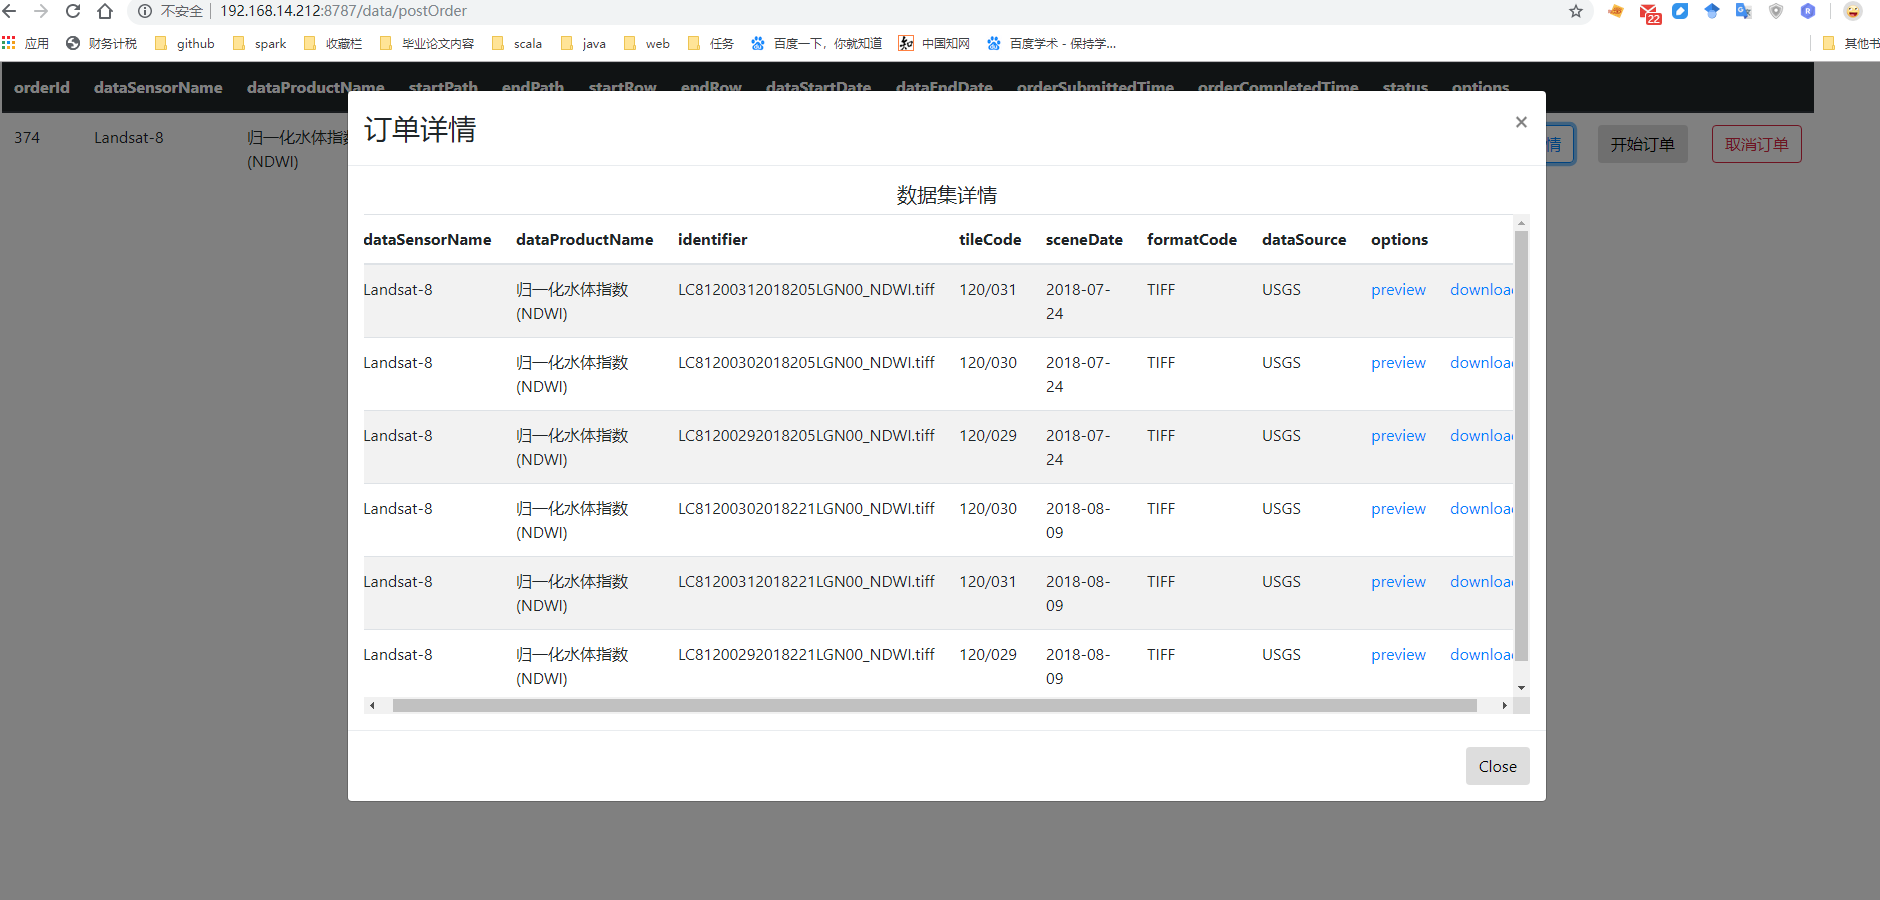
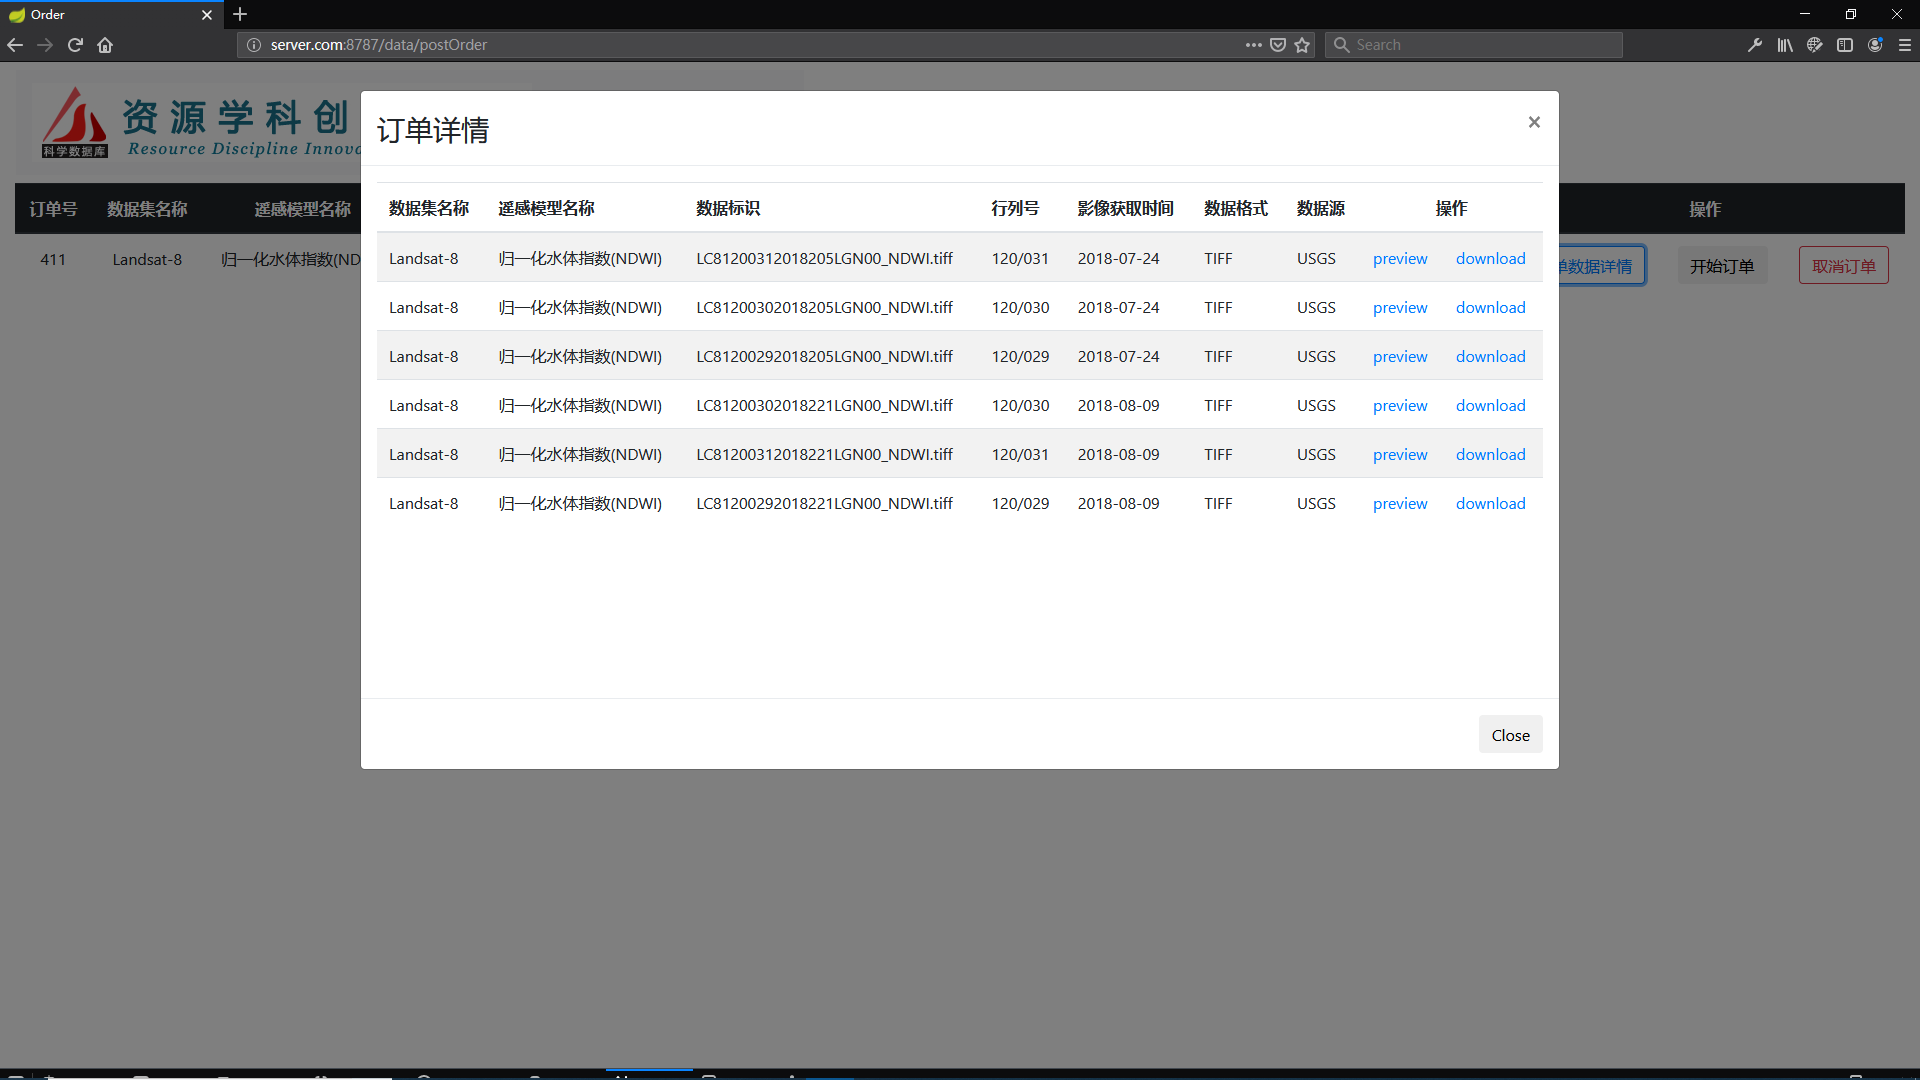
修改页面主题，添加项目logo

diff --git a/eos-data/src/main/java/cn/geosprite/eosdata/service/impl/ProcessServiceImpl.java b/eos-data/src/main/java/cn/geosprite/eosdata/service/impl/ProcessServiceImpl.java
@@ -76,12 +76,26 @@ public class ProcessServiceImpl implements ProcessService {
 
                 //大气校正的输入路径
                 String inputPath = pathConfigs.inputPath + dataGranule.getDataGranulePath();
+
+                /**
+                 *
+                 * /mnt/disk1/geodata/LC08/L1TP_C1_T1_SR/TIFF/113/026/2018/12/30/LC81130262018364LGN00
+                 * */
                 String outputPath = pathConfigs.outputPath + outputDataGranule.getDataGranulePath();
 
                 //进行大气校正
-                String log_  = lasrcService.doLasrc(inputPath, outputPath);
-                log.info("atmosphere correction is done,{}", log_);
-                dataGranuleRepository.save(outputDataGranule);
+                String logs  = lasrcService.doLasrc(inputPath, outputPath);
+                log.info("atmosphere correction is done,{}", logs);
+
+                /**
+                 *
+                 * http://192.168.14.212/LC08/L1TP_C1_T1_NDVI/PNG/113/026/2018/12/30/LC81130262018364LGN00.PNG
+                 * LC08/L1TP_C1_T1_NDVI/TIFF/126/034/2019/03/15/LC81260342019074LGN00_NDVI.tiff
+                 * 需要对SR的路径进行操作，将其改变为资源发布的URL
+                 * */
+
+                String url = pathConfigs.staticResourcePrefix + outputDataGranule.getDataGranulePath();
+                dataGranuleRepository.save(outputDataGranule.setDataGranuleUri(url));
                 dataGranule = outputDataGranule;
             }
             result.add(dataGranule);

diff --git a/eos-data/src/main/java/cn/geosprite/eosdata/enums/OrderEnum.java b/eos-data/src/main/java/cn/geosprite/eosdata/enums/OrderEnum.java
@@ -7,9 +7,11 @@ package cn.geosprite.eosdata.enums;
  * @ Modified By：
  */
 public enum OrderEnum implements DataEnum {
+    /***/
     LANDSAT8_SENSOR("Landsat-8","LC8"),
     LANDSAT8_NDVI("L1TP_C1_T1_NDVI","归一化植被指数(NDVI)"),
-    LANDSAT8_NDWI("L1TP_C1_T1_NDWI","归一化水体指数(NDWI)")
+    LANDSAT8_NDWI("L1TP_C1_T1_NDWI","归一化水体指数(NDWI)"),
+    LANDSAT8_SR("L1TP_C1_T1_SR","地表反射率(SR)")
     ;
 
     private String name;

diff --git a/eos-data/src/main/java/cn/geosprite/eosdata/enums/LandsatEnum.java b/eos-data/src/main/java/cn/geosprite/eosdata/enums/LandsatEnum.java
@@ -10,9 +10,11 @@ import lombok.Getter;
  */
 @Getter
 public enum LandsatEnum implements DataEnum {
+    /***/
     LANDSAT8_SENSOR("LC08","Landsat-8"),
     LANDSAT8_NDVI("L1TP_C1_T1_NDVI","归一化植被指数(NDVI)"),
-    LANDSAT8_NDWI("L1TP_C1_T1_NDWI","归一化水体指数(NDWI)")
+    LANDSAT8_NDWI("L1TP_C1_T1_NDWI","归一化水体指数(NDWI)"),
+    LANDSAT8_SR("L1TP_C1_T1_SR","地表反射率(SR)")
     ;
 
     private String code;

diff --git a/eos-data/src/main/java/cn/geosprite/eosdata/dto/OrderInputDTO.java b/eos-data/src/main/java/cn/geosprite/eosdata/dto/OrderInputDTO.java
@@ -135,7 +135,6 @@ public class OrderInputDTO {
             return order;
         }
 
-
         @Override
         public OrderInputDTO doBackward(Orders orders) {
             throw  new AssertionError("doBackward is not allowed for OrderInputDTO");

diff --git a/eos-data/src/main/java/cn/geosprite/eosdata/controller/ProcessController.java b/eos-data/src/main/java/cn/geosprite/eosdata/controller/ProcessController.java
@@ -43,7 +43,6 @@ public class ProcessController {
 
     }
 
-
     @GetMapping("/test")
     @ResponseBody
     private OrderStatus test(@RequestParam Integer orderId){
